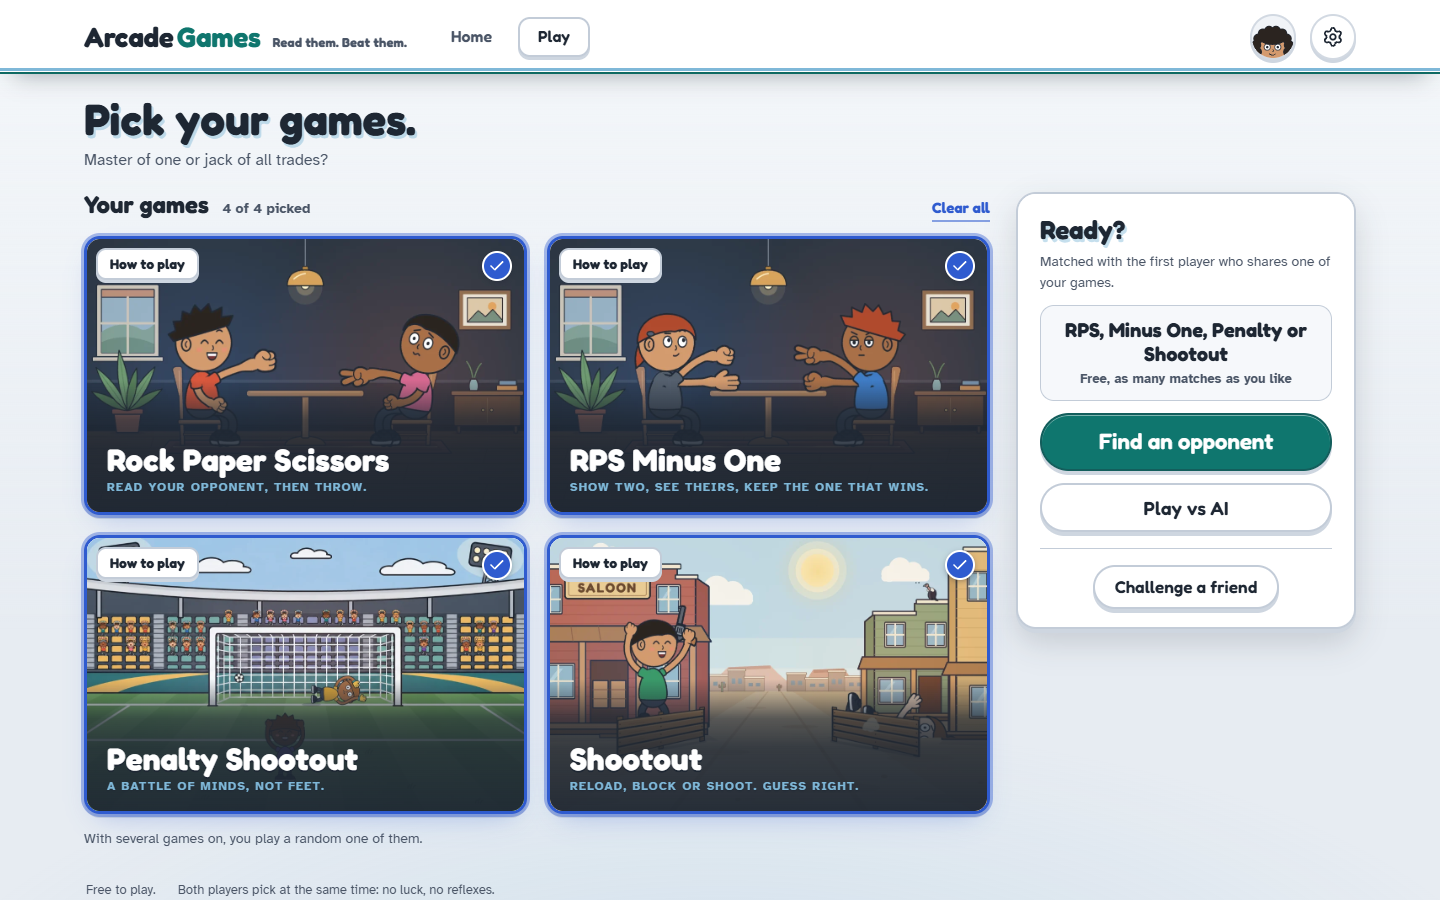
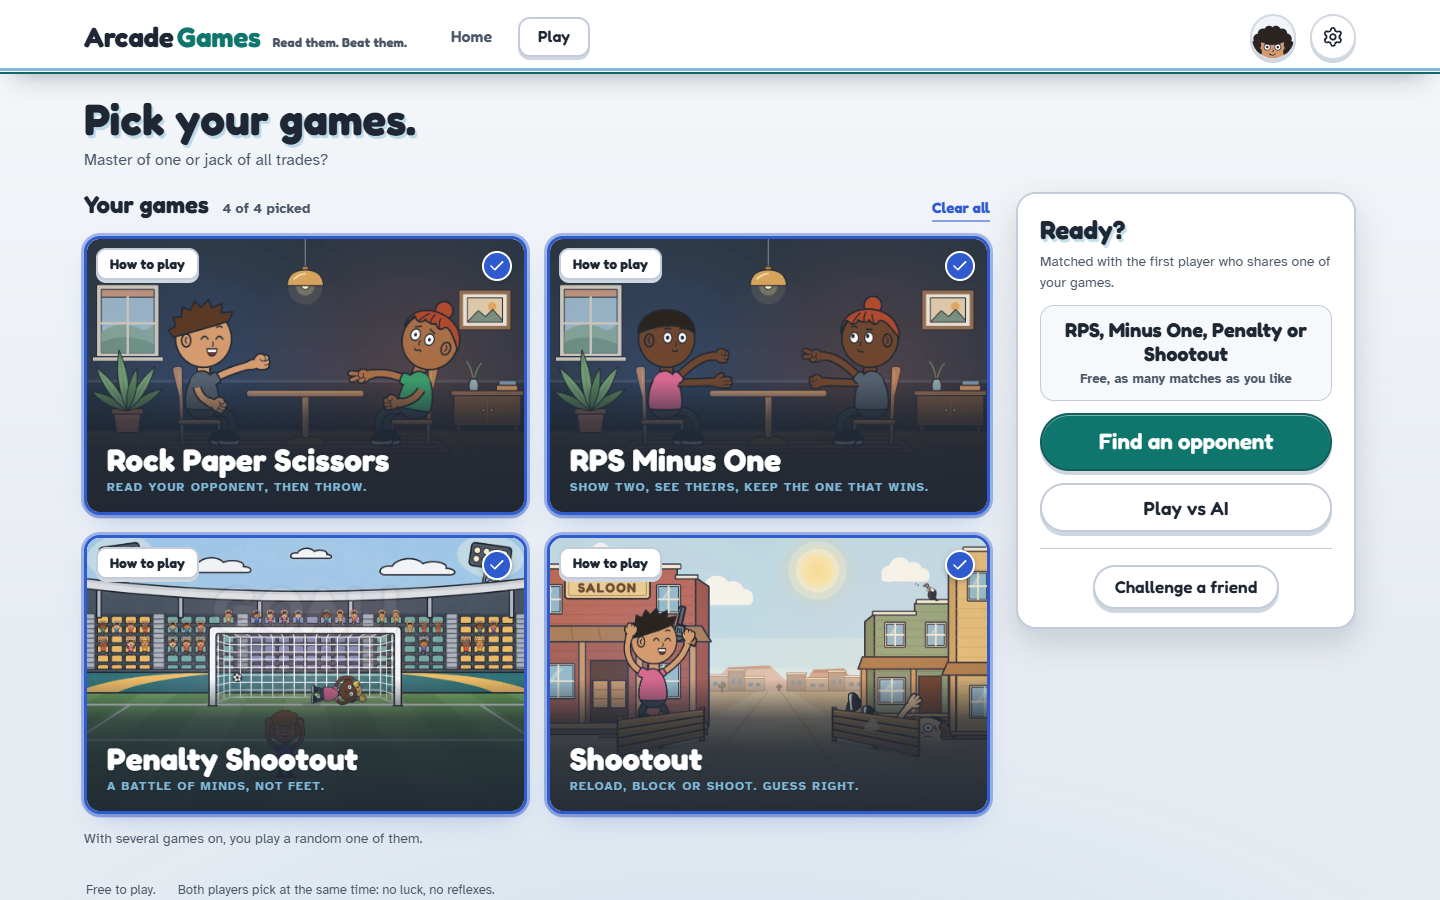
Better hair, a neck, shoulders that belong to the shirt, normal-size RPS hands
The hair caps get a fringe of rounded locks and a few strand lines (short, crop, bun, ponytail, long with locks over
the ears and wavy ends) instead of a smooth helmet; the head sits on a short neck; an arm drawn in front of the body
shows its sleeve outline only outside the body, so the sleeve reads as part of the T-shirt and no lines cross the
chest; the RPS gesture hands are only a little bigger than the other hand (1.12 x instead of 1.55 x); the keeper's
catch rises with the head. Covers, screenshots and the GIF re-rendered.

diff --git a/public/js/figures/human.js b/public/js/figures/human.js
@@ -131,18 +131,31 @@
         + `C${f1(R * 0.8)} ${f1(-R - puff - 6)} ${f1(R + puff + 4)} ${f1(-R * 0.35)} ${sx} ${sy}`
         + `Q${f1(R * 0.62)} ${f1(R * nape + 4)} ${f1(R * 0.3)} ${f1(R * nape + 2)}Q0 ${f1(R * nape - 6)} ${f1(-R * 0.3)} ${f1(R * nape + 2)}Q${f1(-R * 0.62)} ${f1(R * nape + 4)} ${-sx} ${sy}Z`, ...fill });
     };
-    // the cap: the top of the head down to y = -low R at the back side, the fringe lower toward the face; in a turned
-    // view the back of the head (away from the face) keeps more hair, down past the ear
-    const cap = (low = 0.18, fringe = 0.34) => {
+    // The cap: the hair over the top of the head, down to the temples (just above the ears), with a FRINGE of rounded
+    // locks: tips = the locks' lowest points [x, y] in R units from the face side to the back side (front view), notch
+    // = how high the fringe rises between them. In a turned view the fringe slides with the face and narrows, and the
+    // back of the head (away from the face) keeps more hair, down behind the ear. lines: a few strand lines.
+    const cap = ({ temple = -0.12, tips, notch, lines = [] }) => {
       if (back) return backHair();
-      const l = -R - 3, r = R + 3, y0 = f1(-R * low + 8);
-      const yB = f1(-R * low + 8 + a * R * 0.22);   // the back side, lower in a turned view
-      const [yl, yr] = sg > 0 ? [yB, y0] : [y0, yB];
-      return h.el('path', { d: `M${l} ${yl}C${l - 3} ${f1(-R * 1.36)} ${r + 3} ${f1(-R * 1.36)} ${r} ${yr}`
-        + `Q${f1(cx + R * 0.55)} ${f1(-R * fringe - 14)} ${f1(cx + 4)} ${f1(-R * fringe)}Q${f1(cx - R * 0.5)} ${f1(-R * fringe - 6)} ${l} ${yl}Z`, ...fill });
+      const k = 1 - 0.3 * a, X = (x) => f1(cx + x * R * k), Y = (y) => f1(y * R);
+      const yF = Y(temple), yB = Y(temple + a * 0.32);   // the face side, the back side
+      const r = R + 3, l = -R - 3;
+      // right = the face side in a turned view (the head faces right)
+      let d = `M${l} ${yB}C${l - 3} ${f1(-R * 1.38)} ${r + 3} ${f1(-R * 1.38)} ${r} ${yF}`;
+      // along the fringe from the face side (+x) to the back side (-x): a notch, a rounded tip, a notch, ...
+      const xs = [0.92, ...tips.map((t) => t[0]), -0.92];
+      tips.forEach(([x, y], n) => {
+        const xa = (xs[n] + x) / 2, xb = (x + xs[n + 2]) / 2;
+        d += `Q${X(xa + 0.04)} ${Y(notch)} ${X(xa)} ${Y(notch + 0.04)}Q${X(x + 0.08)} ${Y(y)} ${X(x)} ${Y(y)}Q${X(x - 0.1)} ${Y(y + 0.02)} ${X(xb)} ${Y(notch + 0.06)}`;
+      });
+      d += `Q${X(-0.95)} ${Y(notch - 0.05)} ${l} ${yB}Z`;
+      const out = [h.el('path', { d, ...fill })];
+      if (lines.length) out.push(h.el('path', { d: lines.map(([x0, y0, x1, y1]) => `M${X(x0)} ${Y(y0)}Q${X((x0 + x1) / 2 + 0.06)} ${Y((y0 + y1) / 2)} ${X(x1)} ${Y(y1)}`).join(''), fill: 'none', ...h.ink, 'stroke-width': 3, 'stroke-linecap': 'round' }));
+      return h.g({}, ...out);
     };
+    const SHORT = { tips: [[0.55, -0.3], [0.12, -0.36], [-0.38, -0.4]], notch: -0.6, lines: [[0.05, -0.94, 0.28, -0.64], [-0.32, -0.9, -0.18, -0.66]] };
     switch (style) {
-      case 'crop': front.push(cap(0.3, 0.5)); break;
+      case 'crop': front.push(cap({ temple: -0.3, tips: [[0.5, -0.5], [0.17, -0.52], [-0.17, -0.52], [-0.5, -0.5]], notch: -0.6 })); break;
       case 'buzz':
         front.push(back ? backHair(0.56, 0) : h.el('path', { d: `M${-R - 1} ${f1(-R * 0.2)}C${-R - 2} ${f1(-R * 1.32)} ${R + 2} ${f1(-R * 1.32)} ${R + 1} ${f1(-R * 0.2)}Q${f1(cx)} ${f1(-R * 0.74)} ${-R - 1} ${f1(-R * 0.2)}Z`, ...fill }));
         break;
@@ -167,16 +180,27 @@
         front.push(h.blob(balls, c.hair, 3));
         break;
       }
-      case 'long':
-        behind.push(h.el('path', { d: `M${-R - 6} ${f1(-R * 0.2)}C${-R - 12} ${f1(R * 0.85)} ${-R - 6} ${f1(R * 1.15)} ${f1(-R * 0.5)} ${f1(R * 1.15)}L${f1(R * 0.5)} ${f1(R * 1.15)}C${R + 6} ${f1(R * 1.15)} ${R + 12} ${f1(R * 0.85)} ${R + 6} ${f1(-R * 0.2)}Z`, ...fill }));
-        front.push(cap(0.05, 0.3));
-        if (back) front.push(h.el('path', { d: `M${f1(-R * 0.9)} ${f1(R * 0.2)}Q0 ${f1(R * 0.5)} ${f1(R * 0.9)} ${f1(R * 0.2)}L${f1(R * 0.92)} ${f1(R * 1.1)}L${f1(-R * 0.92)} ${f1(R * 1.1)}Z`, fill: c.hair }));
+      case 'long': {
+        // the hair falls behind the head to the shoulders, its ends in soft waves; in front a side-parted fringe and a
+        // lock down over each ear (the face side's lock thins out in a turned view)
+        const wave = (x0, x1, y) => { let d = ''; const n = 4; for (let q = 1; q <= n; q++) { const xa = x0 + ((x1 - x0) * (q - 0.5)) / n, xb = x0 + ((x1 - x0) * q) / n; d += `Q${f1(xa)} ${f1(y + 12)} ${f1(xb)} ${f1(y)}`; } return d; };
+        behind.push(h.el('path', { d: `M${-R - 8} ${f1(-R * 0.3)}C${-R - 14} ${f1(R * 0.6)} ${-R - 10} ${f1(R * 0.95)} ${-R - 4} ${f1(R * 1.12)}${wave(-R - 4, R + 4, R * 1.12)}C${R + 10} ${f1(R * 0.95)} ${R + 14} ${f1(R * 0.6)} ${R + 8} ${f1(-R * 0.3)}Z`, ...fill }));
+        front.push(cap({ temple: 0.05, tips: [[0.6, -0.2], [0.05, -0.44]], notch: -0.66, lines: [[-0.15, -0.94, 0.32, -0.62]] }));
+        if (back) front.push(h.el('path', { d: `M${f1(-R * 0.92)} ${f1(R * 0.2)}Q0 ${f1(R * 0.45)} ${f1(R * 0.92)} ${f1(R * 0.2)}L${f1(R * 0.96)} ${f1(R * 1.08)}${wave(R * 0.96, -R * 0.96, R * 1.08)}Z`, ...fill }));
+        else {
+          // locks over the ears: from the temple down past the jaw, a rounded tip
+          const lock = (s2, wdt) => h.el('path', { d: `M${f1(s2 * (R + 4))} ${f1(-R * 0.2)}C${f1(s2 * (R + 10))} ${f1(R * 0.4)} ${f1(s2 * (R + 8))} ${f1(R * 0.85)} ${f1(s2 * (R + 2))} ${f1(R * 1.02)}Q${f1(s2 * (R - wdt * 0.5))} ${f1(R * 1.08)} ${f1(s2 * (R - wdt))} ${f1(R * 0.92)}C${f1(s2 * (R - wdt - 2))} ${f1(R * 0.5)} ${f1(s2 * (R - wdt + 4))} ${f1(R * 0.05)} ${f1(s2 * (R - 8))} ${f1(-R * 0.3)}Z`, ...fill });
+          // (a turned head: the hair behind already frames it, no locks)
+          if (a < 0.3) front.push(lock(-1, 20), lock(1, 20));
+        }
         break;
+      }
       // a bun or a ponytail sits behind the head from the front and on top of the hair from behind
       case 'bun': {
         const bun = h.el('circle', { cx: f1(-cx * 0.4), cy: back ? f1(-R * 0.55) : -R - 14, r: 22, ...fill });
-        if (back) front.push(cap(0.2, 0.42), bun);
-        else { behind.push(bun); front.push(cap(0.2, 0.42)); }
+        const up = { temple: -0.2, tips: [[0.45, -0.52], [-0.05, -0.6], [-0.5, -0.52]], notch: -0.7, lines: [[0.45, -0.56, 0.12, -0.92], [-0.05, -0.64, -0.12, -0.95], [-0.5, -0.56, -0.4, -0.88]] };
+        if (back) front.push(cap(up), bun);
+        else { behind.push(bun); front.push(cap(up)); }
         break;
       }
       case 'ponytail': {
@@ -185,11 +209,12 @@
           ? h.el('path', { d: `M${f1(bx - 13)} ${f1(by)}Q${f1(bx - 18)} ${f1(by + 50)} ${f1(bx - 4)} ${f1(by + 92)}Q${f1(bx + 18)} ${f1(by + 50)} ${f1(bx + 13)} ${f1(by)}Q${f1(bx)} ${f1(by - 8)} ${f1(bx - 13)} ${f1(by)}Z`, ...fill })
           : h.el('path', { d: `M${f1(bx - 12)} ${f1(by)}Q${f1(bx - 34 - turn * 20)} ${f1(by + 40)} ${f1(bx - 18 - turn * 30)} ${f1(by + 88)}Q${f1(bx + 4)} ${f1(by + 58)} ${f1(bx + 12)} ${f1(by)}Z`, ...fill });
         const tie = h.el('ellipse', { cx: f1(bx), cy: f1(by + 2), rx: 9, ry: 6, fill: c.shirt, ...h.ink, 'stroke-width': 3 });
-        if (back) front.push(cap(0.22, 0.4), tail, tie);
-        else { behind.push(tail); front.push(cap(0.22, 0.4)); if (a > 0.3) front.push(tie); }
+        const up = { temple: -0.18, tips: [[0.5, -0.46], [0, -0.56], [-0.5, -0.46]], notch: -0.68, lines: [[0.5, -0.5, 0.15, -0.9], [-0.5, -0.5, -0.32, -0.88]] };
+        if (back) front.push(cap(up), tail, tie);
+        else { behind.push(tail); front.push(cap(up)); if (a > 0.3) front.push(tie); }
         break;
       }
-      default: front.push(cap(0.15, 0.36));   // short
+      default: front.push(cap(SHORT));   // short
     }
     return { behind, front };
   }

diff --git a/public/js/figures/rig.js b/public/js/figures/rig.js
@@ -43,9 +43,11 @@
   const S = {
     hip: -74, neck: -178, shoulder: -163, belly: -98, bottom: -58,
     bodyRx: 46, bodyRxSide: 40, bodyTop: 24, bodyTopSide: 22,
-    hipX: 20, hipXSide: 6, headSide: 6, headUp: 70, R: 70,
+    hipX: 20, hipXSide: 6, headSide: 6, headUp: 80, R: 70,
   };
   const SKIN = { id: 'human', skel: S, armW: 15, legW: 17 };
+  // the neck: NECK_W wide, from inside the head down into the body (the head sits headUp - R above the body's top)
+  const NECK_W = 32;
   const FA = () => window.DuelFigureArt || null;
   // the trousers band: the lowest BAND part of the body
   const BAND = 0.2;
@@ -437,7 +439,8 @@
         el('rect', { x: -4000, y: -4000, width: 8000, height: 8000, fill: 'white' }), n.armMaskBody);
       n.armMid = g({ class: 'rig-arms-tucked', mask: `url(#${id}-arms)` });
       n.legs = g({}); n.body = g({}); n.head = g({});
-      n.all.append(el('defs', {}, n.armMask), n.armBack, n.legs, n.body, n.head, n.armMid, n.armFront);
+      n.neck = g({ class: 'rig-neck' });
+      n.all.append(el('defs', {}, n.armMask), n.armBack, n.legs, n.neck, n.body, n.head, n.armMid, n.armFront);
       n.flip.append(n.shadow, n.all);
       this.root.append(n.flip);
 
@@ -459,6 +462,10 @@
       n.belt = el('path', { fill: 'none', ...ink, 'stroke-width': 3.5, 'clip-path': `url(#${id}-body)` });
       n.bodyEdge = el('path', { fill: 'none', ...ink });
       n.body.append(el('defs', {}, n.clip), n.bodyPath, n.pants, n.belt, n.bodyEdge);
+      // the neck: skin with outlined sides, behind the body (its foot) and the head (its top)
+      { const top = -(S.headUp - S.R * 0.6), x = NECK_W / 2;
+        n.neck.append(el('rect', { x: -x, y: f1(top), width: NECK_W, height: f1(18 - top), fill: c.skin }),
+          el('path', { d: `M${-x} ${f1(top)}V18M${x} ${f1(top)}V18`, fill: 'none', ...ink })); }
 
       // head (figures/human.js): hair behind + ears, the head, the face (every expression built once, one shown), the
       // hair in front
@@ -564,7 +571,7 @@
 
     // Big gesture hands (the RPS table): fn(k, shape, rig) -> truthy for an arm that draws its gesture big.
     bigHands(fn, { scale = 0.36 } = {}) {
-      this.big = fn ? { fn, k: 1.55 * (scale / 0.36) } : null;
+      this.big = fn ? { fn, k: 1.12 * (scale / 0.36) } : null;
       for (const k of [1, 2]) this.n[`arm${k}`].shape = null;
       this.apply(this.cur, performance.now());
       return this;
@@ -676,6 +683,7 @@
       // head
       const neck = B([lerp(0, S.headSide, turn), S.neck - S.hip]);
       n.head.setAttribute('transform', `translate(${f1(neck[0] + p.hx)} ${f1(neck[1] + p.hy)}) rotate(${f1(p.brot + p.hrot)})`);
+      n.neck.setAttribute('transform', n.head.getAttribute('transform'));
       n.headInner.setAttribute('transform', `translate(0 ${-S.headUp})`);
       const ht = clamp(turn + p.ht, -1, 1);
       H().turnHead(n.hp, ht, back);
@@ -749,6 +757,9 @@
         }
         arm.sleeve.style.display = sb ? '' : 'none';
         if (sb) { arm.sO.setAttribute('d', sb.outer); arm.sF.setAttribute('d', sb.inner); }
+        // an arm in front of the body: its sleeve is part of the shirt, so the sleeve's outline shows only outside the
+        // body (masked out of it), never as lines across the chest
+        if (front) arm.sO.setAttribute('mask', `url(#rig${this.id}-arms)`); else arm.sO.removeAttribute('mask');
         const key = `${shape}:${big}`;
         if (arm.shape !== key) {
           arm.handInner.innerHTML = '';

diff --git a/public/js/scenes/penalty.js b/public/js/scenes/penalty.js
@@ -130,14 +130,14 @@
   // ---------------- poses (data) ----------------
   // The keeper catches with both gloves overhead: the ball sits at BALL_AT (character units), BALL_R big. The dives
   // are this same overhead reach, rotated, so the gloves meet the ball at the corner (aim points come from the poses).
-  const BALL_AT = [0, -372], BALL_R = 34;
+  const BALL_AT = [0, -384], BALL_R = 34;
   // Offset of a point in the prop frame of a hand (rig: translate(end) rotate(r) translate(along, across)).
   const propAt = (end, r, pt) => {
     const a = -r * D2R, dx = pt[0] - end[0], dy = pt[1] - end[1];
     return [Math.round((dx * Math.cos(a) - dy * Math.sin(a)) * 10) / 10, Math.round((dx * Math.sin(a) + dy * Math.cos(a)) * 10) / 10, 0];
   };
   const GLOVES = { h1: 'glove', h2: 'glove' };   // every keeper pose wears the gloves
-  const OVER = { ...GLOVES, a1: [-66, -334, -1.1], a2: [66, -334, 1.1], r1: -84, r2: -96, exact1: 1, exact2: 1 };
+  const OVER = { ...GLOVES, a1: [-66, -346, -1.1], a2: [66, -346, 1.1], r1: -84, r2: -96, exact1: 1, exact2: 1 };
   OVER.p1 = propAt(OVER.a1, OVER.r1, BALL_AT);
   OVER.p2 = propAt(OVER.a2, OVER.r2, BALL_AT);
 
